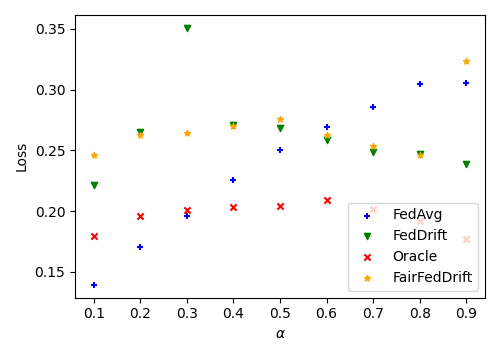
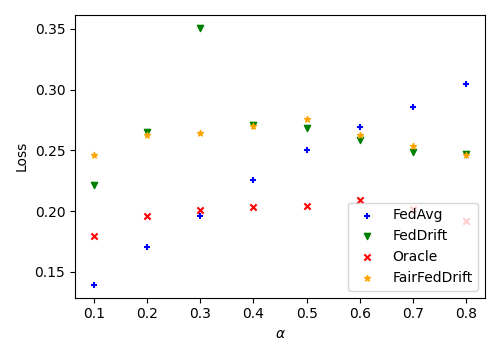
Adds results.

diff --git a/plot_helper.py b/plot_helper.py
@@ -7,10 +7,10 @@ def plot_loss():
     filename = "./Loss.png"
     fedavg_1 = [0.232004105, 0.16022246480000002, 0.155830392, 0.1313788094, 0.14532913399999997, 0.14840156200000001, 0.133090378, 0.12486841000000001, 0.0937390061, 0.0704806768]
     plt.plot(range(0, len(fedavg_1)), fedavg_1, label=r'FedAvg ($\alpha$=0.1)', color="slateblue", linestyle='-')
-    fedavg_9 = [0.232759832, 0.16546678600000003, 0.32253460599999995, 0.285315957, 0.307970396, 0.43402331400000005, 0.381531238, 0.35622206, 0.39812241950000005, 0.169374242]
-    plt.plot(range(0, len(fedavg_9)), fedavg_9, label=r'FedAvg ($\alpha$=0.9)', color="dodgerblue", linestyle="--")
+    fedavg_8 = [0.247859275, 0.17188574999999998, 0.338034466, 0.28943438, 0.27914743, 0.39950378, 0.370329521, 0.347829872, 0.42559499900000003, 0.17999327199999998]
+    plt.plot(range(0, len(fedavg_8)), fedavg_8, label=r'FedAvg ($\alpha$=0.8)', color="dodgerblue", linestyle="--")
     plt.xticks(range(0, 10))
-    plt.xlabel("timestep")
+    plt.xlabel(r'$t$')
     plt.ylim([0, 1])
     plt.ylabel(metric)
     plt.legend(loc="lower right")
@@ -25,10 +25,10 @@ def plot_loss_s0():
     filename = "./Loss_S0.png"
     fedavg_1 = [0.46530501399999996, 0.422957306, 0.6321275319999999, 0.435066442, 0.5410406240000001, 0.693914735, 0.6035494349999999, 0.541623856, 0.536577139, 0.37849725999999995]
     plt.plot(range(0, len(fedavg_1)), fedavg_1, label=r'FedAvg ($\alpha$=0.1)', color="slateblue", linestyle="-")
-    fedavg_9 = [0.21156001, 0.131930678, 0.326965282, 0.28839296000000003, 0.31063570399999996, 0.44681889900000005, 0.39122278600000004, 0.36094981200000004, 0.420569249, 0.167220078]
-    plt.plot(range(0, len(fedavg_9)), fedavg_9, label=r'FedAvg ($\alpha$=0.9)', color="dodgerblue", linestyle="--")
+    fedavg_8 = [0.23772795300000005, 0.14169542799999998, 0.357989731, 0.3051637, 0.284505344, 0.4485552790000001, 0.41374011, 0.38984839399999993, 0.501485168, 0.190891296]
+    plt.plot(range(0, len(fedavg_8)), fedavg_8, label=r'FedAvg ($\alpha$=0.8)', color="dodgerblue", linestyle="--")
     plt.xticks(range(0, 10))
-    plt.xlabel("timestep")
+    plt.xlabel(r'$t$')
     plt.ylim([0, 1])
     plt.ylabel(metric)
     plt.legend(loc="lower right")

diff --git a/plot_scenario.py b/plot_scenario.py
@@ -75,7 +75,7 @@ def plot_algorithms(best_results_dict, filename, metric, title):
         print(alg, metric, res_clients[metric][1])
         plt.plot(
             range(0, len(res_clients[metric][1])), res_clients[metric][1], label=alg,
-            color=get_algorithm_by_name(alg).color, marker=get_algorithm_by_name(alg).marker
+            color=get_algorithm_by_name(alg).color
         )
     plt.title(title)
     plt.xticks(range(0, 10))
